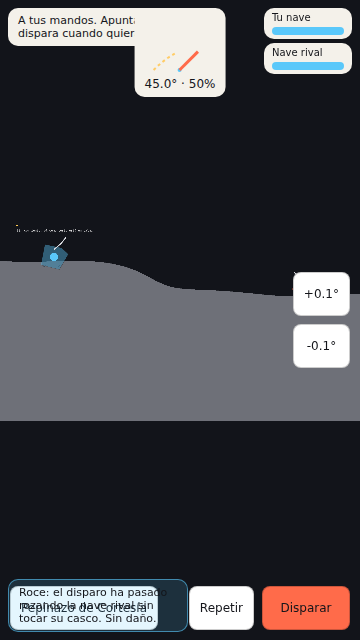
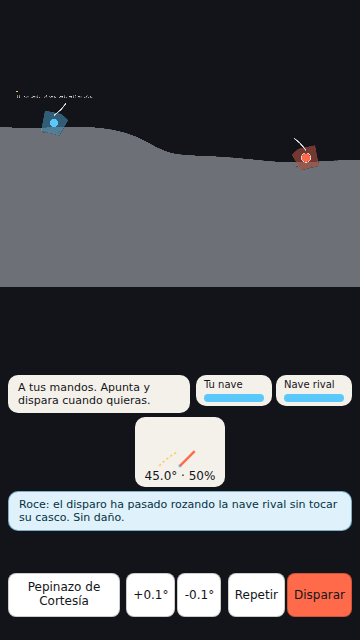
fix(contacto-honesto): panel de roce con fondo opaco propio (con-3)
El panel de roce tenía fondo con alfa 0,16 y texto en la variable
--color-cromado-texto: en esquema claro ese texto es casi negro y,
compuesto sobre la consola oscura, daba 1,34:1 de contraste (medido
por el gatekeeper en la iteración 6). Se le da al panel una pareja
de variables propia (--color-roce-fondo/--color-roce-texto), opaca
y con >=4,5:1 comprobado en los dos esquemas, y se añade esa
comprobación al e2e para que no vuelva a pasar desapercibida.

Se extrae el cálculo de contraste de esp-5.e2e.ts a
tests/utils/contraste.ts, compartido ahora por los dos e2e que lo
necesitan.

diff --git a/tests/e2e/esp-5.e2e.ts b/tests/e2e/esp-5.e2e.ts
@@ -1,42 +1,11 @@
 import { test, expect, type Page } from "@playwright/test";
+import { componentesRGB, luminanciaRelativa, ratioDeContraste, RATIO_MINIMO_TEXTO } from "../utils/contraste";
 
 // esp-5: el esquema claro/oscuro del sistema cambia el cromado (paneles,
 // texto del HUD) con contraste >=4.5:1 en los dos, mientras que el campo de
 // juego (el canvas y el letterbox que lo rodea) se queda oscuro en ambos
 // esquemas -- decisión declarada, no un descuido: SuperficieEspacio y el
 // fondo de Phaser no leen `prefers-color-scheme` en ningún momento.
-
-function componentesRGB(color: string): [number, number, number] {
-  const coincidenciaHex = color.match(/^#([0-9a-f]{6})$/i);
-  if (coincidenciaHex) {
-    const hex = coincidenciaHex[1];
-    return [parseInt(hex.slice(0, 2), 16), parseInt(hex.slice(2, 4), 16), parseInt(hex.slice(4, 6), 16)];
-  }
-  const coincidenciaRgb = color.match(/rgba?\(([\d.]+),\s*([\d.]+),\s*([\d.]+)/);
-  if (coincidenciaRgb) {
-    return [Number(coincidenciaRgb[1]), Number(coincidenciaRgb[2]), Number(coincidenciaRgb[3])];
-  }
-  throw new Error(`color no reconocido: ${color}`);
-}
-
-// Luminancia relativa y ratio de contraste, fórmula WCAG 2.x estándar (la
-// misma que usa cualquier comprobador de contraste): un cálculo genérico de
-// test, no algo que viva en el producto.
-function luminanciaRelativa([r, g, b]: [number, number, number]): number {
-  const canal = (c: number) => {
-    const s = c / 255;
-    return s <= 0.03928 ? s / 12.92 : ((s + 0.055) / 1.055) ** 2.4;
-  };
-  const [rl, gl, bl] = [canal(r), canal(g), canal(b)];
-  return 0.2126 * rl + 0.7152 * gl + 0.0722 * bl;
-}
-
-function ratioDeContraste(colorA: string, colorB: string): number {
-  const la = luminanciaRelativa(componentesRGB(colorA));
-  const lb = luminanciaRelativa(componentesRGB(colorB));
-  const [claro, oscuro] = la > lb ? [la, lb] : [lb, la];
-  return (claro + 0.05) / (oscuro + 0.05);
-}
 
 async function iniciarPartida(page: Page): Promise<void> {
   await page.goto("/");
@@ -47,8 +16,6 @@ async function iniciarPartida(page: Page): Promise<void> {
     await page.getByTestId("ayuda-cerrar").click();
   }
 }
-
-const RATIO_MINIMO = 4.5;
 
 test("los esquemas claro y oscuro dan >=4.5:1 de contraste en el cromado, y el campo de juego se queda oscuro en los dos", async ({
   page,
@@ -70,7 +37,7 @@ test("los esquemas claro y oscuro dan >=4.5:1 de contraste en el cromado, y el c
     lecturas.push({ esquema, ...estilos });
 
     const ratio = ratioDeContraste(estilos.fondo, estilos.texto);
-    expect(ratio).toBeGreaterThanOrEqual(RATIO_MINIMO);
+    expect(ratio).toBeGreaterThanOrEqual(RATIO_MINIMO_TEXTO);
   }
 
   const [oscuro, claro] = lecturas;

diff --git a/tests/e2e/contacto-honesto.e2e.ts b/tests/e2e/contacto-honesto.e2e.ts
@@ -1,4 +1,5 @@
 import { test, expect } from "@playwright/test";
+import { ratioDeContraste, RATIO_MINIMO_TEXTO } from "../utils/contraste";
 
 // contacto-honesto: aterrizar un vuelo real justo en la banda de roce (fuera
 // del radio de colisión, dentro de la silueta dibujada -- unos pocos píxeles
@@ -109,4 +110,35 @@ test("contacto-honesto: el núcleo real se dibuja a escala exacta y se realza al
   expect(realzadoApuntando).toBe(1);
 
   await page.screenshot({ path: "capturas/contacto-honesto-2-nucleo-realzado.png" });
+});
+
+// con-3 (gatekeeper, iteración 6): el fondo con alfa 0,16 que llevaba antes
+// el panel de roce daba 1,34:1 en esquema claro (casi ilegible) aunque en
+// oscuro se viera bien -- Playwright arranca en claro por defecto, así que
+// el fallo pasaba desapercibido si solo se miraba un esquema. Se comprueba
+// aquí, explícitamente, en los dos.
+test("contacto-honesto: el panel de roce cumple 4,5:1 de contraste en los dos esquemas (con-3)", async ({ page }) => {
+  for (const esquema of ["dark", "light"] as const) {
+    await page.emulateMedia({ colorScheme: esquema });
+    await page.setViewportSize({ width: 360, height: 640 });
+    await page.goto("/?mapa=calma-de-los-restos");
+    await page.getByTestId("boton-jugar").click();
+    await page.waitForSelector("#game-container canvas");
+    await page.waitForFunction(() => window.__debug.naves !== undefined);
+    if (await page.getByTestId("ayuda-cerrar").isVisible()) {
+      await page.getByTestId("ayuda-cerrar").click();
+    }
+
+    await page.evaluate(() => window.__debug.dispararEventoRoce!(1, 200, 300));
+
+    const panelRoce = page.getByTestId("panel-roce");
+    await expect(panelRoce).toBeVisible();
+    const { fondo, texto } = await panelRoce.evaluate((el) => {
+      const estilo = getComputedStyle(el);
+      return { fondo: estilo.backgroundColor, texto: estilo.color };
+    });
+
+    const ratio = ratioDeContraste(fondo, texto);
+    expect(ratio, `esquema ${esquema}: fondo ${fondo}, texto ${texto}`).toBeGreaterThanOrEqual(RATIO_MINIMO_TEXTO);
+  }
 });

diff --git a/tests/utils/contraste.ts b/tests/utils/contraste.ts
@@ -1,0 +1,33 @@
+// Cálculo de contraste WCAG 2.x compartido por los e2e que verifican esp-5
+// (el cromado general) y con-3 (el panel de roce): un solo sitio para la
+// fórmula evita que dos copias diverjan si algún día cambia el umbral.
+export function componentesRGB(color: string): [number, number, number] {
+  const coincidenciaHex = color.match(/^#([0-9a-f]{6})$/i);
+  if (coincidenciaHex) {
+    const hex = coincidenciaHex[1];
+    return [parseInt(hex.slice(0, 2), 16), parseInt(hex.slice(2, 4), 16), parseInt(hex.slice(4, 6), 16)];
+  }
+  const coincidenciaRgb = color.match(/rgba?\(([\d.]+),\s*([\d.]+),\s*([\d.]+)/);
+  if (coincidenciaRgb) {
+    return [Number(coincidenciaRgb[1]), Number(coincidenciaRgb[2]), Number(coincidenciaRgb[3])];
+  }
+  throw new Error(`color no reconocido: ${color}`);
+}
+
+export function luminanciaRelativa([r, g, b]: [number, number, number]): number {
+  const canal = (c: number) => {
+    const s = c / 255;
+    return s <= 0.03928 ? s / 12.92 : ((s + 0.055) / 1.055) ** 2.4;
+  };
+  const [rl, gl, bl] = [canal(r), canal(g), canal(b)];
+  return 0.2126 * rl + 0.7152 * gl + 0.0722 * bl;
+}
+
+export function ratioDeContraste(colorA: string, colorB: string): number {
+  const la = luminanciaRelativa(componentesRGB(colorA));
+  const lb = luminanciaRelativa(componentesRGB(colorB));
+  const [claro, oscuro] = la > lb ? [la, lb] : [lb, la];
+  return (claro + 0.05) / (oscuro + 0.05);
+}
+
+export const RATIO_MINIMO_TEXTO = 4.5;

diff --git a/src/app/globals.css b/src/app/globals.css
@@ -21,6 +21,26 @@
   }
 }
 
+/* contacto-honesto (con-3): el panel de roce llevaba fondo con alfa 0,16 y
+   texto en --color-cromado-texto -- en esquema claro ese texto es casi negro
+   y compuesto sobre la consola oscura de fondo daba 1,34:1 (gatekeeper,
+   iteración 6). El panel necesita identidad de color propia (azulada,
+   distinta de resultado-turno/broma) sin dejar de cumplir esp-5: fondo con
+   alfa 1 y texto con 4,5:1 medido contra ÉL, no contra lo que haya detrás. */
+:root {
+  --color-roce-fondo: #0a222e;
+  --color-roce-texto: #cdeeff;
+  --color-roce-borde: rgba(90, 200, 250, 0.6);
+}
+
+@media (prefers-color-scheme: light) {
+  :root {
+    --color-roce-fondo: #dff2fb;
+    --color-roce-texto: #063142;
+    --color-roce-borde: rgba(6, 90, 130, 0.45);
+  }
+}
+
 /* touch-action: none evita que el navegador se lleve el gesto de arrastre
    (scroll, tirón de recarga) antes de que control-apuntado exista -- fijarlo
    aquí desde el primer bloque evita que se rompa por accidente más tarde. */

diff --git a/src/juego/hud/RoceHUD.tsx b/src/juego/hud/RoceHUD.tsx
@@ -26,11 +26,15 @@ export function RoceHUD() {
         minWidth: 0,
         maxHeight: 70,
         overflowY: "auto",
-        background: "rgba(90,200,250,0.16)",
-        border: "1px solid rgba(90,200,250,0.6)",
+        // con-3 (gatekeeper, iteración 6): fondo opaco propio en vez de la
+        // rgba con alfa 0,16 que llevaba antes -- con transparencia el
+        // contraste real depende de qué haya detrás (globals.css lo prohíbe
+        // para el cromado desde esp-5, y este panel se saltaba esa regla).
+        background: "var(--color-roce-fondo)",
+        border: "1px solid var(--color-roce-borde)",
         borderRadius: 10,
         padding: "6px 10px",
-        color: "var(--color-cromado-texto)",
+        color: "var(--color-roce-texto)",
         font: "11px system-ui, sans-serif",
         pointerEvents: "none",
         wordBreak: "break-word",
